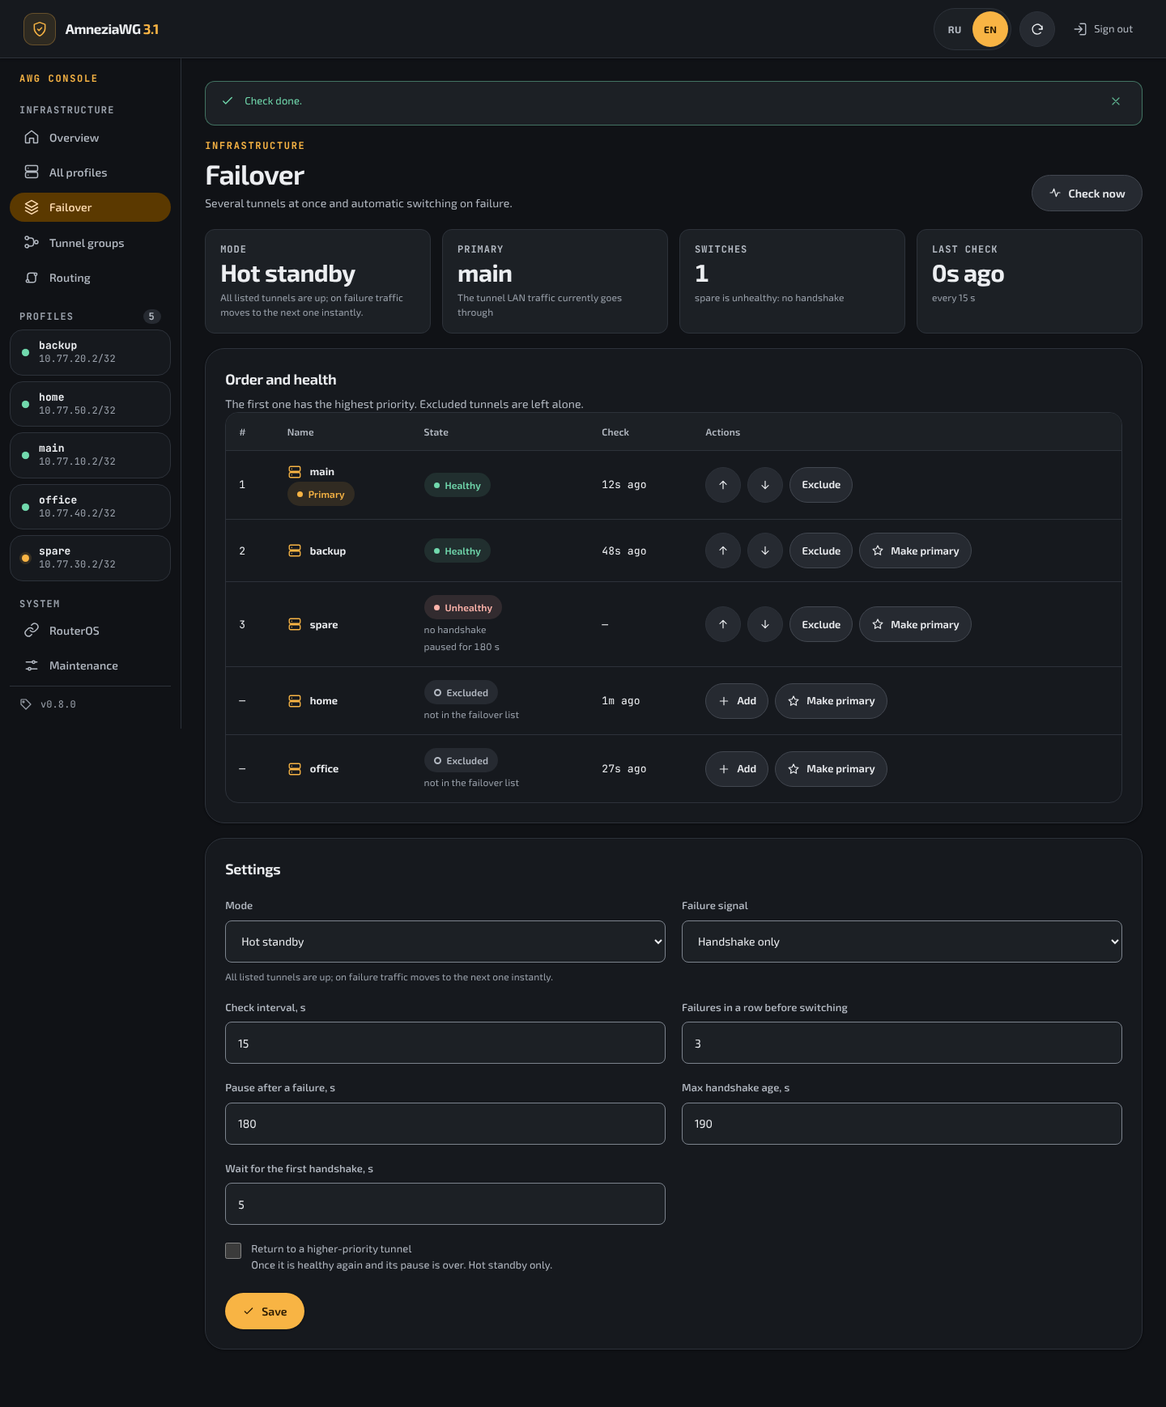
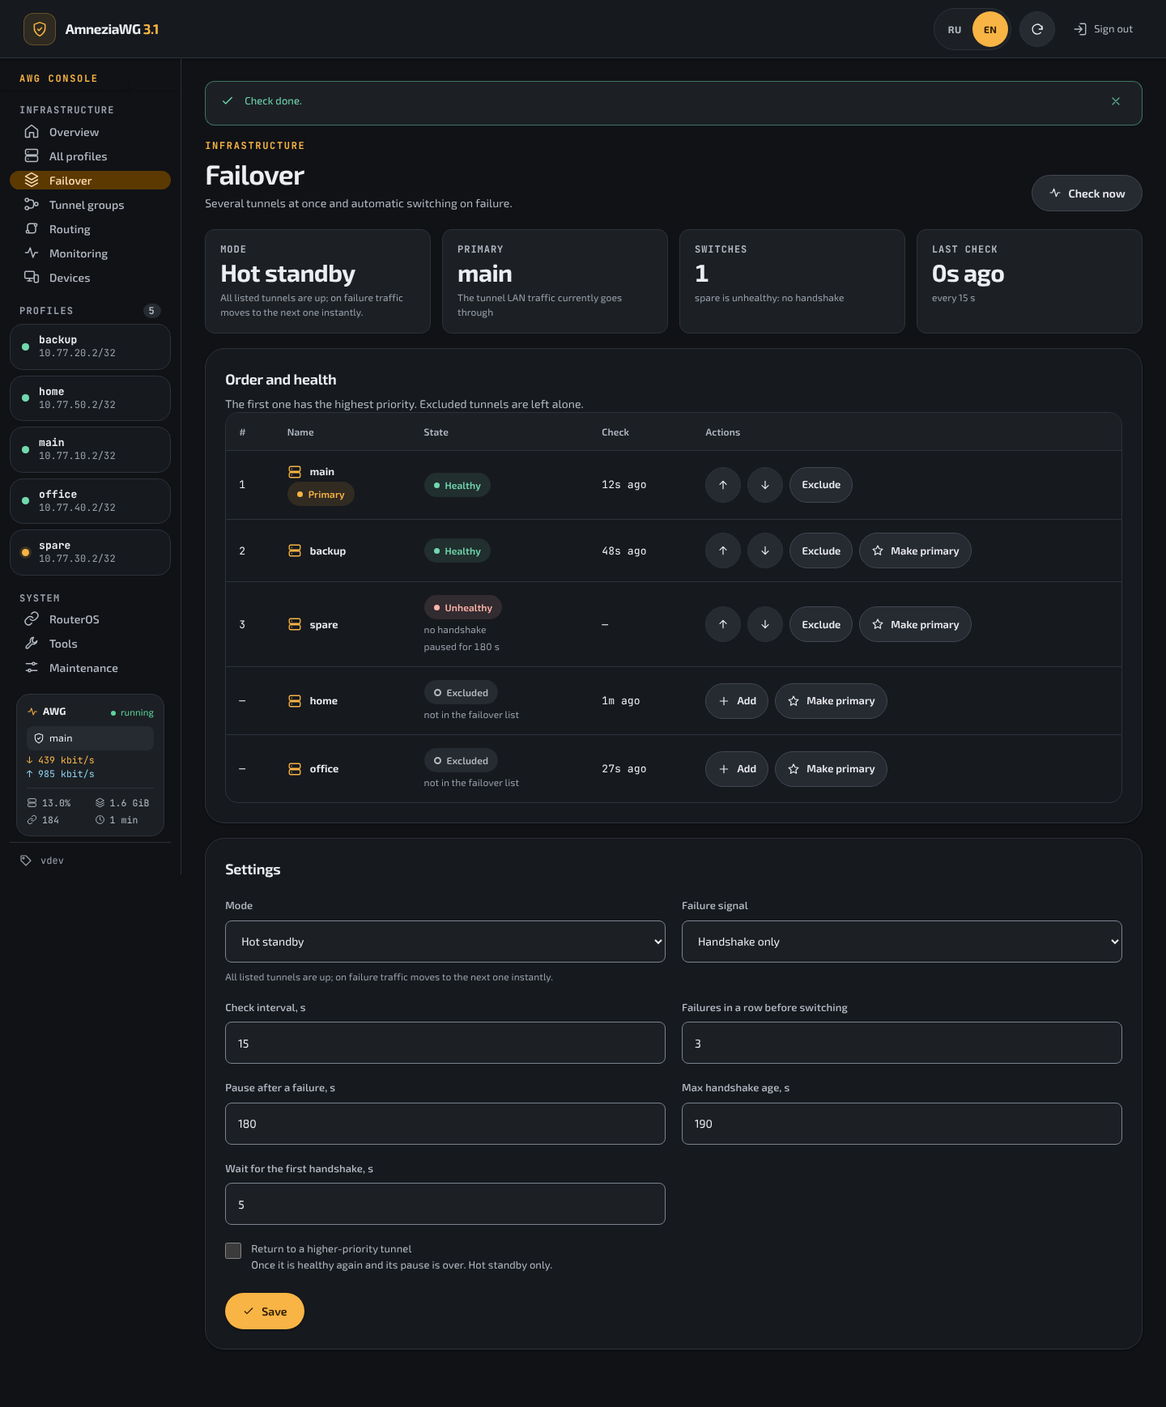
Release 0.9.0: devices, per-device rules, monitoring, tools
- README: new feature bullets, monitoring/devices/tools screenshots
- MIKROTIK.md: per-device rules and monitoring section
- Regenerated RU/EN screenshots
- Sidebar status block does not shrink

Claude-Session: https://claude.ai/code/session_01Uvk3C6esKL3DAWALGVq36q

Changed region(s): [[0.0, 0.2175, 0.1562, 0.5903], [0.0, 0.0932, 0.1562, 0.1864], [0.125, 0.2175, 0.1562, 0.2486]]

diff --git a/internal/web/static/app.css b/internal/web/static/app.css
@@ -624,3 +624,4 @@ select.cell-input{width:auto;min-width:200px}
 .tools-grid .actions{margin-top:14px}
 .tools-grid .card>.hint{margin:4px 0 12px}
 .tools-grid .field{margin-top:10px}
+.side-status,.side-foot{flex:none}

diff --git a/README.ru.md b/README.ru.md
@@ -4,7 +4,7 @@
 
 Клиент **AmneziaWG 3.1** в контейнере с двуязычной (RU/EN) веб-консолью в том же оформлении, что и панель [amneziawg31-installer](https://github.com/stepm65/amneziawg31-installer): профили `.conf`, подъём и остановка туннелей, автозапуск после перезагрузки и **подписка прямо из вашей панели**. Работает в Docker и **на роутерах MikroTik (arm64 и arm32)**. Без CDN, без внешних зависимостей Go, без веб-терминала.
 
-Версия **0.8.3** · лицензия GPL-3.0 · проект не связан с разработчиками AmneziaVPN.
+Версия **0.9.0** · лицензия GPL-3.0 · проект не связан с разработчиками AmneziaVPN.
 
 ![Обзор](docs/screenshots/ru-overview.png)
 
@@ -20,6 +20,9 @@
 - **Несколько туннелей и резервирование:** туннели работают одновременно, у каждого своя таблица маршрутов; основной (куда идёт трафик LAN) меняется одной командой без перезапуска. Режимы «горячий резерв» (все подняты, переключение мгновенное) и «переключение» (поднят только основной); сбой определяется по рукопожатию, TCP-пробе через конкретный туннель или по обоим; порог неудач, пауза после сбоя, возврат к более приоритетному. Страница «Резервирование» с порядком и состоянием туннелей.
 - **Группы туннелей и балансировка:** несколько VPS как один выход. Режим «Балансировка» распределяет новые соединения между исправными участниками по весам (один поток остаётся в одном туннеле), режим «По порядку» направляет трафик через первого исправного. Упавший участник выводится из маршрута сам, вернувшийся (после паузы) добавляется обратно. Группа назначается основным выходом или используется в правилах: `PROXY@группа` («эти сайты — через VPS-1, а если он упал, то через VPS-2»). Страница «Группы туннелей».
 - **Маршрутизация по правилам и DNS:** правила `PROXY` / `PROXY@туннель` / `PROXY@группа` / `DIRECT` / `DROP` по доменам, `geosite:`, `geoip:` и сетям; базы v2ray `geosite.dat`/`geoip.dat` (или текстовые списки) скачиваются по расписанию, в память грузятся только нужные категории. DNS-форвардер (UDP/TCP, DoH) отправляет запросы для `PROXY` через туннель, для `DIRECT` — мимо, для `DROP` отвечает NXDOMAIN; адреса из ответов запоминаются, чтобы трафик к ним шёл тем же путём. Страница «Маршрутизация» — таблица сервисов: значок, условия, куда направить, переключатель и перетаскивание строк; каталог сервисов со значками работает без интернета, а сами правила остаются обычным текстом (его можно править руками). Источник баз переключается одной кнопкой, в том числе на [IPList](https://iplist.opencck.org/) (теги там называются по сайтам и группам, например `geoip:telegram.org`; значки сайтов контейнер берёт с него же). После загрузки баз окно «Добавить сервис» показывает все их категории с поиском. Есть проверка «куда пойдёт этот домен или IP».
+- **Правила по устройствам и портам:** справочник устройств (имя, IP или сеть, тип; можно добавить из аренд DHCP роутера), и правило можно ограничить устройствами, портами назначения и протоколом: `DIRECT geosite:steam src=@pc port=27000-27100 net=udp`. Такие правила проверяются раньше общих. Плитки-фильтры и счётчик соединений у каждого правила.
+- **Мониторинг:** история трафика за 15 минут или час, схема «устройства → правила → туннели» по соединениям из conntrack (с выбором пути узла), таблица соединений с именами из DNS. «Обзор» показывает трафик, туннели и группы, самые нагруженные правила и устройства; внизу меню — состояние контейнера (процессор, память, соединения, время работы).
+- **Инструменты:** дополнительные наборы geodata под своим тегом (`geosite:тег:категория`), тест маршрута с устройством и портом, экспорт и импорт правил, резервная копия и восстановление (профили и все настройки).
 - **Интеграция с RouterOS:** контейнер сам ведёт на роутере address-list (сети `PROXY` — постоянно, адреса из DNS — со сроком) или анонсирует их по **BGP**, и добавляет в `/ip/dns/static` записи FWD для доменных правил. Работает через REST API RouterOS 7 под отдельным пользователем с минимальными правами; сертификат роутера закрепляется пином, чужие записи не трогаются. Страница «RouterOS» с проверкой подключения и готовыми командами для роутера.
 - **Режим сервера:** профиль с `ListenPort` и пирами без `Endpoint` поднимается как сервер AmneziaWG — клиенты выходят в интернет через LAN контейнера; на MikroTik порт 51821/udp пробрасывается правилами `awg31_server_*`.
 - **Kill switch и IPv6:** пока туннеля нет, трафик LAN отбрасывается, а не уходит мимо VPN (`AWG_KILLSWITCH=on`); IPv6 в туннеле с NAT66, а на MikroTik — ULA-адрес на veth, если роутер IPv6 не выдал (`AWG_ENABLE_IPV6=on`).
@@ -115,9 +118,13 @@ docker logs awg31          # здесь токен первичной настр
 |---|---|
 | ![Маршрутизация](docs/screenshots/ru-policy.png) | ![Добавить сервис](docs/screenshots/ru-add-service.png) |
 
-| Подписка панели | |
+| Мониторинг: трафик и топология соединений | Устройства |
 |---|---|
-| ![Подписка](docs/screenshots/ru-subscription.png) | |
+| ![Мониторинг](docs/screenshots/ru-monitor.png) | ![Устройства](docs/screenshots/ru-devices.png) |
+
+| Подписка панели | Инструменты |
+|---|---|
+| ![Подписка](docs/screenshots/ru-subscription.png) | ![Инструменты](docs/screenshots/ru-tools.png) |
 
 | Новый профиль | Обслуживание |
 |---|---|

diff --git a/README.md b/README.md
@@ -4,7 +4,7 @@
 
 An **AmneziaWG 3.1** client in a container with a bilingual (RU/EN) web console that looks and behaves like the [amneziawg31-installer](https://github.com/stepm65/amneziawg31-installer) panel: `.conf` profiles, turning tunnels on and off, autostart after a reboot and **a subscription taken straight from your panel**. Runs in Docker and **on MikroTik routers (arm64 and arm32)**. No CDN, no third-party Go modules, no web terminal.
 
-Version **0.8.3** · GPL-3.0 licence · not affiliated with the AmneziaVPN developers.
+Version **0.9.0** · GPL-3.0 licence · not affiliated with the AmneziaVPN developers.
 
 ![Overview](docs/screenshots/en-overview.png)
 
@@ -20,6 +20,9 @@ Version **0.8.3** · GPL-3.0 licence · not affiliated with the AmneziaVPN devel
 - **Several tunnels and failover:** tunnels run at the same time, each with its own routing table; the primary one (where LAN traffic goes) changes with a single command, without restarts. Modes "hot standby" (all up, instant switch) and "switch over" (only the primary is up); failure is detected by handshake, a TCP probe through that particular tunnel, or both; failure threshold, pause after a failure, return to a higher-priority tunnel. A Failover page shows the order and health of tunnels.
 - **Tunnel groups and balancing:** several VPS servers as one exit. "Balancing" spreads new connections across the healthy members by weight (one flow stays in one tunnel); "In order" sends traffic through the first healthy member. A failed member leaves the route on its own and comes back after its pause. A group can be made the primary exit or used in rules: `PROXY@group` ("these sites go through VPS-1, and if it is down, through VPS-2"). A Tunnel groups page.
 - **Rule-based routing and DNS:** `PROXY` / `PROXY@tunnel` / `PROXY@group` / `DIRECT` / `DROP` rules by domain, `geosite:`, `geoip:` and network; v2ray `geosite.dat`/`geoip.dat` databases (or plain text lists) are downloaded on a schedule and only the needed categories are loaded into memory. A DNS forwarder (UDP/TCP, DoH) sends queries for `PROXY` through the tunnel and for `DIRECT` around it, and answers NXDOMAIN for `DROP`; addresses from answers are remembered so traffic to them takes the same path. The Routing page is a table of services with an icon, conditions, a destination, an on/off switch and drag-and-drop ordering; the service catalog and its icons work offline, and the rules themselves stay plain text you can edit by hand. The database source switches with one button, including [IPList](https://iplist.opencck.org/) (its tags are named after sites and groups, e.g. `geoip:telegram.org`, and the container fetches site icons from it). Once the databases are downloaded, the "Add service" dialog lists every category they contain, with search. There is also a "where will this domain or IP go" check.
+- **Per-device and per-port rules:** a device list (name, IP or network, type; can be filled from the router's DHCP leases), and a rule can be limited to devices, destination ports and protocol: `DIRECT geosite:steam src=@pc port=27000-27100 net=udp`. Such rules are checked before general ones. Filter tiles and a connection counter on every rule.
+- **Monitoring:** traffic history for 15 minutes or an hour, a "devices → rules → tunnels" diagram of connections from conntrack (click a node to highlight its path), a connection table with names from DNS. "Overview" shows traffic, tunnels and groups, the busiest rules and devices; the bottom of the menu shows the container state (CPU, memory, connections, uptime).
+- **Tools:** extra geodata sets under their own tag (`geosite:tag:category`), a route test with device and port, rules export and import, backup and restore (profiles and all settings).
 - **RouterOS integration:** the container maintains an address list on the router itself (`PROXY` networks permanently, DNS-learned addresses with a timeout) or announces them over **BGP**, and adds FWD entries to `/ip/dns/static` for domain rules. It uses the RouterOS 7 REST API as a separate least-privilege user; the router certificate is pinned and other entries are left alone. The "RouterOS" page tests the connection and shows ready-made router commands.
 - **Server mode:** a profile with `ListenPort` and peers without `Endpoint` comes up as an AmneziaWG server, and its clients reach the internet through the container's LAN; on MikroTik the `awg31_server_*` rules forward port 51821/udp.
 - **Kill switch and IPv6:** while no tunnel is up, LAN traffic is dropped instead of bypassing the VPN (`AWG_KILLSWITCH=on`); IPv6 in the tunnel with NAT66 and, on MikroTik, a ULA address on the veth if the router gives none (`AWG_ENABLE_IPV6=on`).
@@ -115,9 +118,13 @@ Good to know:
 |---|---|
 | ![Routing](docs/screenshots/en-policy.png) | ![Add service](docs/screenshots/en-add-service.png) |
 
-| Panel subscription | |
+| Monitoring: traffic and connection topology | Devices |
 |---|---|
-| ![Subscription](docs/screenshots/en-subscription.png) | |
+| ![Monitoring](docs/screenshots/en-monitor.png) | ![Devices](docs/screenshots/en-devices.png) |
+
+| Panel subscription | Tools |
+|---|---|
+| ![Subscription](docs/screenshots/en-subscription.png) | ![Tools](docs/screenshots/en-tools.png) |
 
 | New profile | Maintenance |
 |---|---|

diff --git a/docs/MIKROTIK.md b/docs/MIKROTIK.md
@@ -152,3 +152,9 @@ iptables в образе — legacy-вариант: ядро RouterOS работ
 Проверено без роутера: все Go-тесты проходят на эмулированных arm64 и ARMv7 (QEMU, `go test -exec`); собранные `awgd` для arm64 и ARMv7 запускались под QEMU и проходили полный сценарий веб-консоли в Chrome; `entrypoint.sh` проверен на сценариях Docker и RouterOS с подменой системных команд; `app.yaml` проходит JSON-схему RouterOS `/app`.
 
 Не проверено: балансировка ECMP на ядре настоящего RouterOS (многопутевая маршрутизация и запись `fib_multipath_hash_policy` в контейнере), сборка образа (в среде разработки нет Docker-демона), запуск на настоящем MikroTik, скрипты `.rsc` и команды со страницы «RouterOS» (синтаксис сверен с документацией MikroTik, но на роутере не выполнялся), REST API и BGP настоящего RouterOS (проверены против поддельного роутера, повторяющего форматы REST API 7 и протокол BGP-4). Вход в консоль на слабых arm32 может занимать несколько секунд: пароль хранится как PBKDF2 с 600 000 итераций (оценка, не замер).
+
+## Правила по устройствам и мониторинг
+
+- **Правила с устройствами** (`src=@устройство`, `port=`, `net=`) решает контейнер: у каждого такого набора своя таблица маршрутов и `ip rule` по адресу источника. Поэтому до контейнера должен доходить трафик этих устройств. В режиме `AWG31ALL true` (весь интернет-трафик LAN через контейнер) это так. В режиме по address-list роутер отправляет в контейнер только адреса из списка: сети правил `PROXY` (в том числе суженных) туда попадают, а `DIRECT` для одного устройства при общем `PROXY` для того же адреса сработает только для трафика, который уже пришёл в контейнер.
+- **Адрес устройства** закрепите на роутере статической арендой DHCP: правило действует, пока у устройства этот IP. Список устройств можно заполнить из аренд кнопкой «Из DHCP роутера» на странице «Устройства» (нужна интеграция с RouterOS на странице «RouterOS»).
+- **Мониторинг** берёт соединения из conntrack самого контейнера: видно только то, что проходит через контейнер. Если ядро не отдаёт `/proc/net/nf_conntrack`, используется утилита `conntrack` из образа. Объём по соединениям виден, только если в ядре включён учёт (`nf_conntrack_acct`); контейнер пытается включить его сам, иначе показывается только число соединений.
